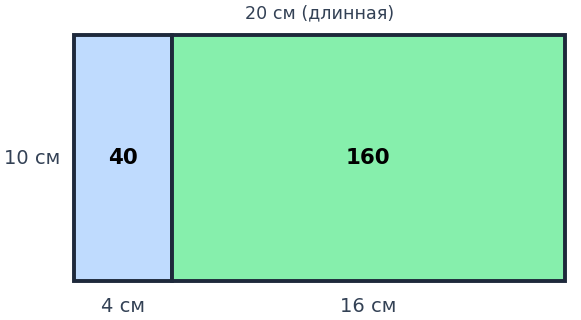
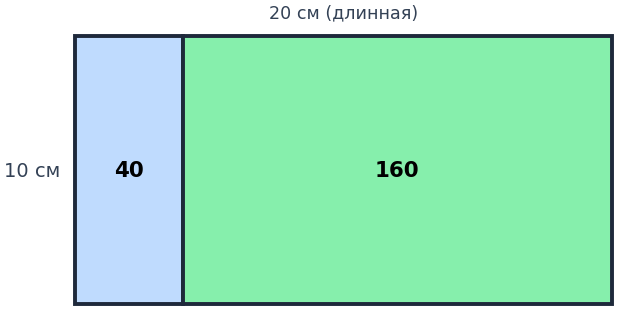
Упростить подписи на чертежах задач 6, 7 и 9
Убраны сегменты снизу; для №6 подпись 15 см вдоль длинной стороны. Обновлена методичка (DOCX и рисунки).

Made-with: Cursor

Changed region(s): [[0.0, 0.0, 0.9914, 0.9745], [0.5886, 0.4586, 0.6816, 0.5732], [0.1859, 0.4586, 0.2478, 0.5732]]

diff --git a/proporsii_trenajer_module.py b/proporsii_trenajer_module.py
@@ -85,12 +85,11 @@ def _d6(ax: plt.Axes) -> None:
     )
     ax.text(1, h / 2, "30", ha="center", va="center", fontsize=11, weight="bold")
     ax.text(5, h / 2, "90", ha="center", va="center", fontsize=11, weight="bold")
-    ax.text(1, -0.9, "2 см", ha="center", va="top", fontsize=10, color="#334155")
-    ax.text(5, -0.9, "6 см", ha="center", va="top", fontsize=10, color="#334155")
-    ax.text(4, h + 0.6, "15 см", ha="center", va="bottom", fontsize=10, color="#334155")
+    # Длинная сторона 15 см — подпись вдоль левого ребра (без 2 см / 6 см снизу).
+    ax.text(-0.55, h / 2, "15 см", ha="center", va="center", rotation=90, fontsize=10, color="#334155")
     ax.set_aspect("equal")
-    ax.set_xlim(-0.35, 8.35)
-    ax.set_ylim(-1.55, h + 1.15)
+    ax.set_xlim(-1.15, 8.35)
+    ax.set_ylim(-0.2, h + 0.35)
     ax.axis("off")
 
 
@@ -120,14 +119,14 @@ def _d7(ax: plt.Axes) -> None:
     )
     ax.text(2, h_short / 2, "40", ha="center", va="center", fontsize=11, weight="bold")
     ax.text(12, h_short / 2, "160", ha="center", va="center", fontsize=11, weight="bold")
-    ax.text(2, -0.65, "4 см", ha="center", va="top", fontsize=10, color="#334155")
-    ax.text(12, -0.65, "16 см", ha="center", va="top", fontsize=10, color="#334155")
     ax.text(w_long / 2, h_short + 0.55, "20 см (длинная)", ha="center", va="bottom", fontsize=9, color="#334155")
     ax.text(-0.55, h_short / 2, "10 см", ha="right", va="center", fontsize=10, color="#334155")
     ax.set_aspect("equal")
     ax.set_xlim(-1.0, w_long + 0.5)
-    ax.set_ylim(-1.25, h_short + 1.05)
+    ax.set_ylim(-0.2, h_short + 1.05)
     ax.axis("off")
+
+
 def _d8(ax: plt.Axes) -> None: _draw_split(ax, [2, 3], ["2 части", "3 части"])
 def _d9(ax: plt.Axes) -> None:
     # Квадрат 12×12 см: сторона делится 1:3 → 3 см и 9 см.
@@ -154,12 +153,10 @@ def _d9(ax: plt.Axes) -> None:
     )
     ax.text(1.5, s / 2, "36", ha="center", va="center", fontsize=11, weight="bold")
     ax.text(7.5, s / 2, "108", ha="center", va="center", fontsize=11, weight="bold")
-    ax.text(1.5, -0.75, "3 см", ha="center", va="top", fontsize=10, color="#334155")
-    ax.text(7.5, -0.75, "9 см", ha="center", va="top", fontsize=10, color="#334155")
     ax.text(-0.7, s / 2, "12 см", ha="right", va="center", fontsize=10, color="#334155")
     ax.set_aspect("equal")
     ax.set_xlim(-1.15, 12.35)
-    ax.set_ylim(-1.35, s + 0.85)
+    ax.set_ylim(-0.2, s + 0.85)
     ax.axis("off")
 
 
